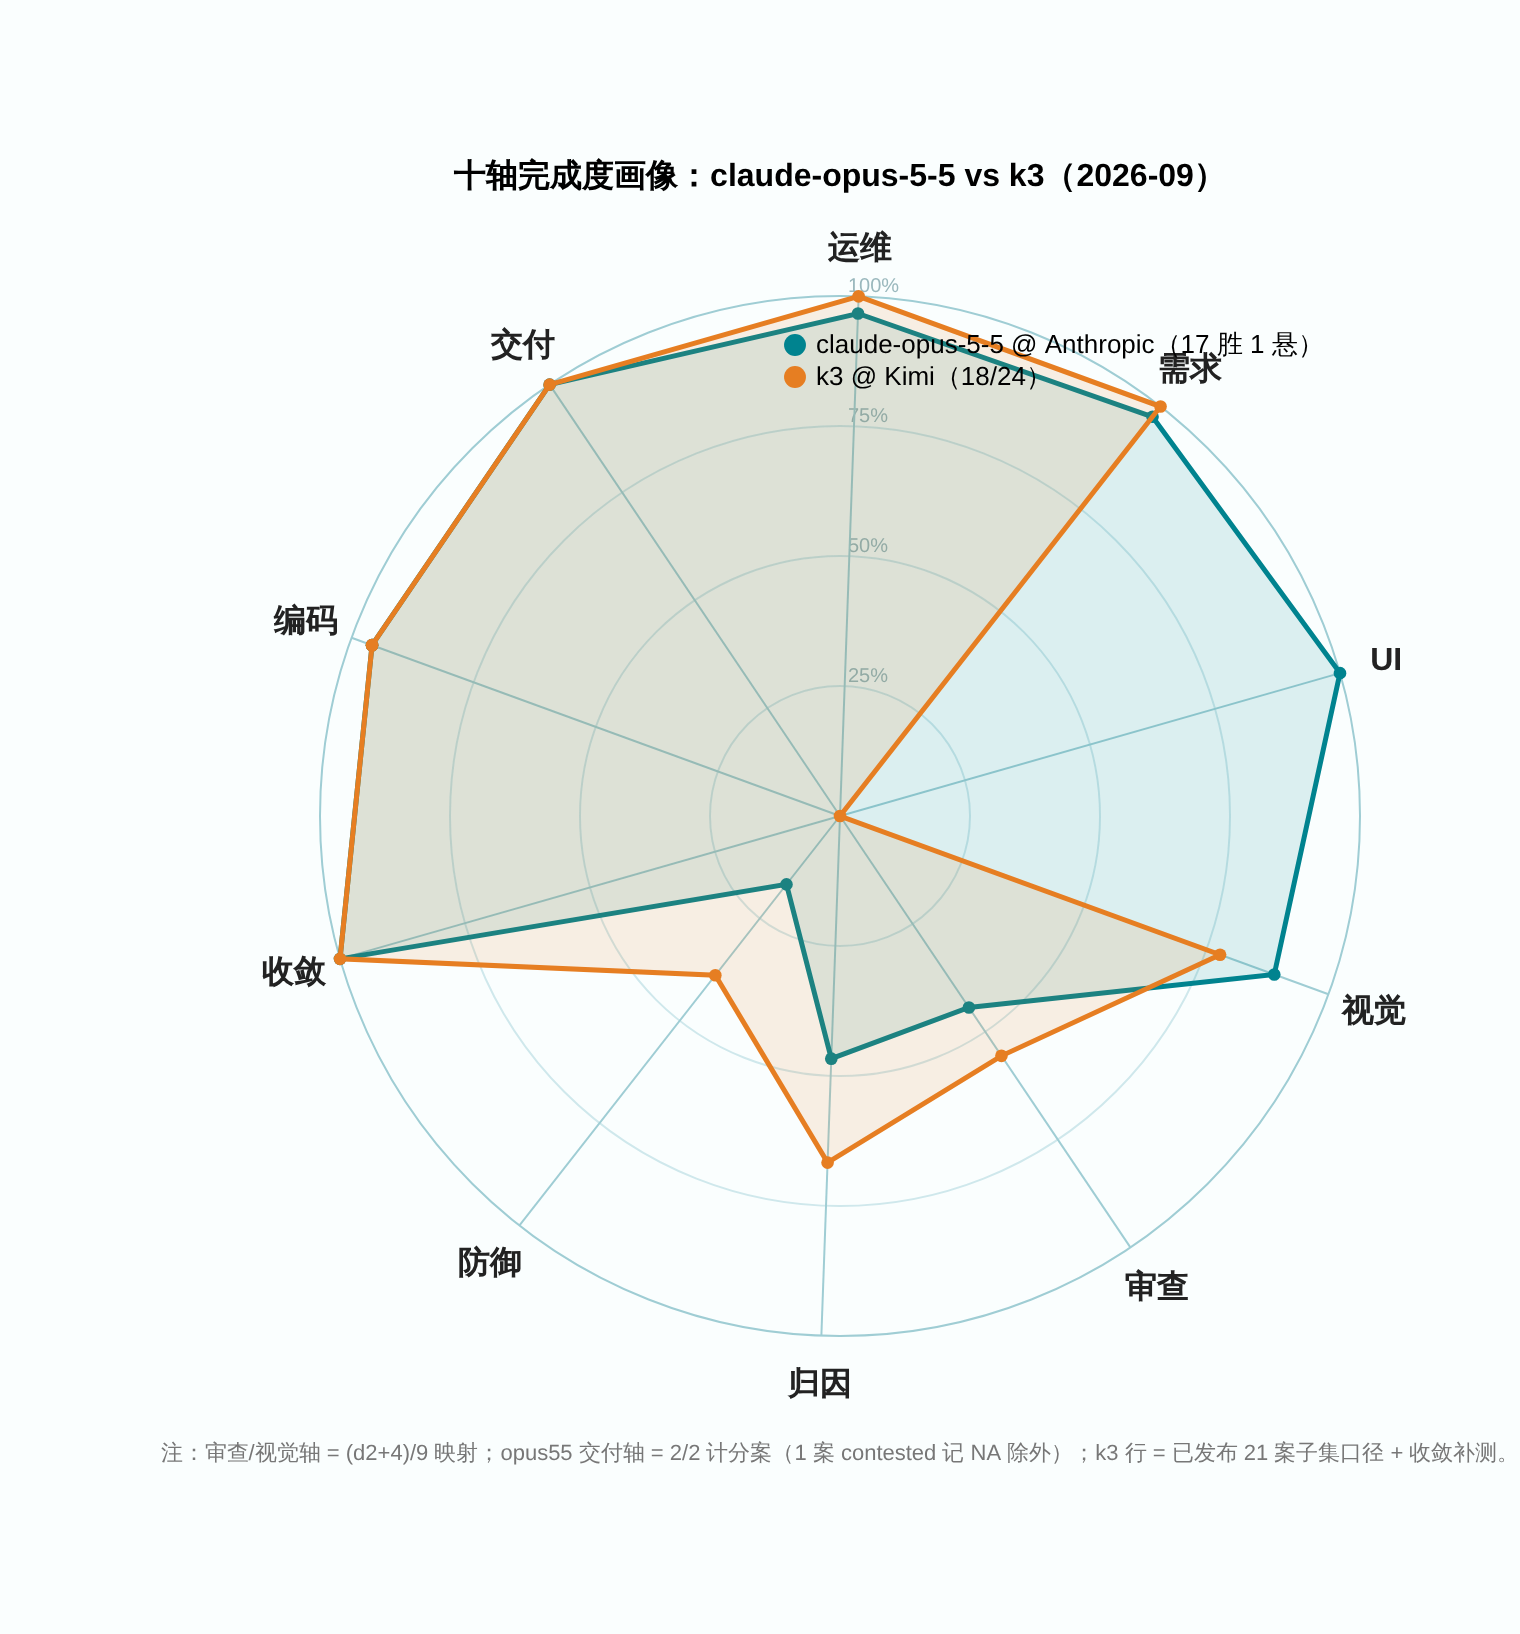
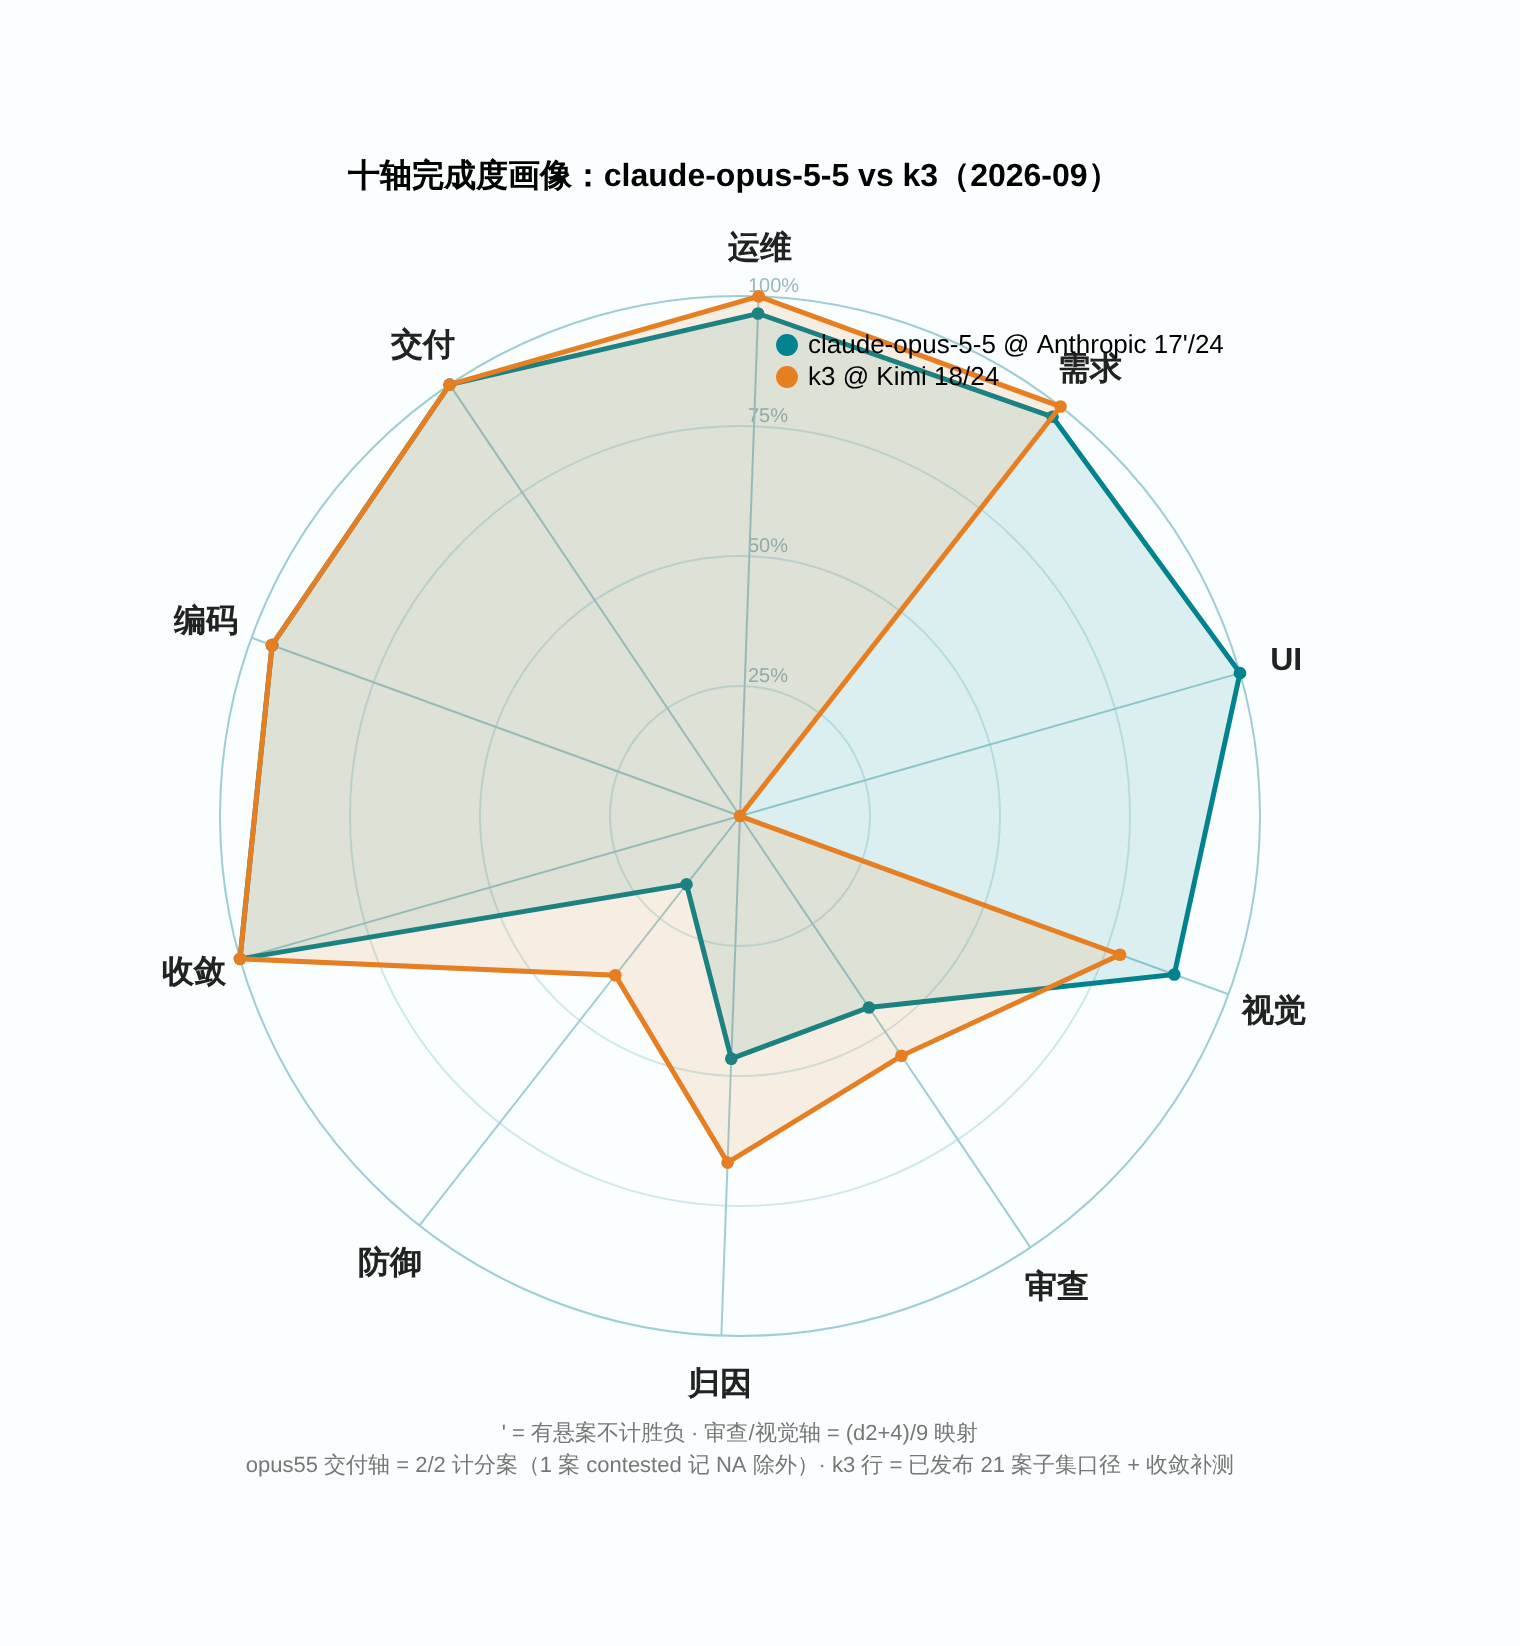
notation: contested compact mark 17'/24 (' = one contested case scored NA) — legend, footnotes, matrix legend (owner 2026-09-22)

diff --git a/results/2026-W39.md b/results/2026-W39.md
@@ -23,7 +23,7 @@ English: [2026-W39.en.md](2026-W39.en.md)
 
 ## Full matrix
 
-Case handles 为公开别名（对照 [amber hash-index](https://github.com/getaskclaw/amber)）。标记：✓ 过 / ✗ 挂（d2 分）/ ⊘ contested（挂起，不计胜负）。
+Case handles 为公开别名（对照 [amber hash-index](https://github.com/getaskclaw/amber)）。标记：✓ 过 / ✗ 挂（d2 分）/ ⊘ contested（挂起，不计胜负）。紧凑记法：`17'/24` 的 `'` = 有悬案（NA）不计胜负。
 
 | case | face | bundle_sha | claude-opus-5-5 @ Anthropic |
 |---|---|---|---|

diff --git a/results/2026-W39.en.md b/results/2026-W39.en.md
@@ -23,7 +23,7 @@
 
 ## Full matrix
 
-Case handles are public aliases (see the [amber hash-index](https://github.com/getaskclaw/amber)). Marks: ✓ pass / ✗ fail (d2 score) / ⊘ contested (suspended, counts as neither).
+Case handles are public aliases (see the [amber hash-index](https://github.com/getaskclaw/amber)). Marks: ✓ pass / ✗ fail (d2 score) / ⊘ contested (suspended, counts as neither). Compact notation: the `'` in `17'/24` means one contested case scored NA.
 
 | case | face | bundle_sha | claude-opus-5-5 @ Anthropic |
 |---|---|---|---|
